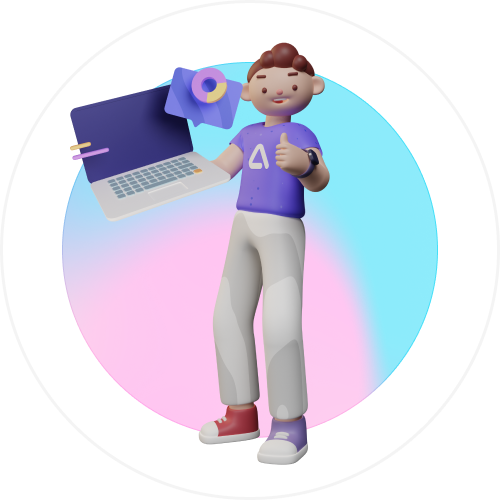
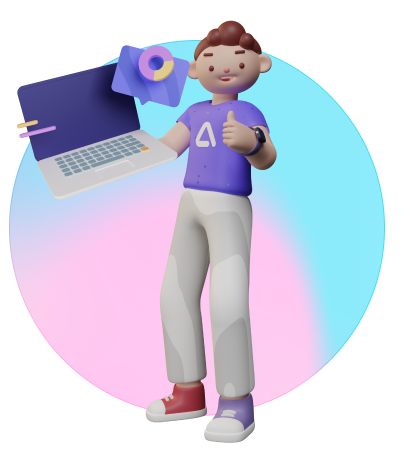
Styled header and Make Home Component and Styled the Home component

diff --git a/src/Component/Header/Header.jsx b/src/Component/Header/Header.jsx
@@ -1,20 +1,20 @@
 import React from 'react';
 import { NavLink } from 'react-router-dom';
-
+import {Logo,Topheader,Nav,Navbar} from "./Header.js"
 export const Header=()=>{
     return(
         <div>
-             <header>
-                 <div>Logo</div>
-                 <nav>
-                     <ul>
-                         <li><NavLink to="/" exact>Home</NavLink></li>
-                         <li><NavLink to="/works">Works</NavLink></li>   
-                         <li><NavLink to="/aboutme">AboutMe</NavLink></li>  
-                         <li><NavLink to="/contact">Contact</NavLink></li>  
-                     </ul>
-                 </nav>
-             </header>
+             <Topheader>
+                 <Logo>MP</Logo>
+                 <Nav>
+                     <Navbar>
+                         <li><NavLink to="/" exact activeClassName="Active_Link">Home</NavLink></li>
+                         <li><NavLink to="/works" activeClassName="Active_Link">Works</NavLink></li>   
+                         <li><NavLink to="/aboutme" activeClassName="Active_Link">AboutMe</NavLink></li>  
+                         <li><NavLink to="/contact" activeClassName="Active_Link">Contact</NavLink></li>  
+                     </Navbar>
+                 </Nav>
+             </Topheader>
         </div>
     )
 }

diff --git a/src/Component/Home/Home.js b/src/Component/Home/Home.js
@@ -1,0 +1,62 @@
+import styled from "styled-components"
+
+
+
+export const HOME=styled.div`
+margin-top: 2rem;
+width: 100%;
+height: 60vh;
+display: flex;
+align-items: center;
+justify-content: space-between;
+`
+
+export const HomeContent=styled.div`
+flex: 1 1 50%;
+height: 100%;
+padding-left: 5rem;
+padding-top: 2rem;
+
+`
+
+export const HomeImages=styled.div`
+flex: 1 1 50%;
+height: 100%;
+
+display: flex;
+align-items: center;
+justify-content: center;
+z-index: 1;
+position: relative;
+`
+
+export const Image=styled.img`
+width: 400px;
+height: 500px;
+
+` 
+
+export const ImageObject_1=styled.img`
+width: 100px;
+height: 150px;
+position:absolute;
+top:-40px;
+left: 180px;
+`
+export const ImageObject_2=styled.img`
+width: 100px;
+height: 150px;
+position:absolute;
+top:250px;
+right: 7px;
+`
+export const ImageObject_3=styled.img`
+width: 130px;
+height: 170px;
+position:absolute;
+top:270px;
+right: 320px;
+`
+
+export const SayHi=styled.h1`
+`

diff --git a/src/Component/Home/Home.jsx b/src/Component/Home/Home.jsx
@@ -1,11 +1,21 @@
 import React from 'react';
-
-
-
+import {HOME,HomeContent,HomeImages,Image,ImageObject_1,ImageObject_2,ImageObject_3,SayHi} from "./Home.js"
+import Image_1 from "../../images/Person.png"
+import Imageobject_1 from "../../images/object_1.png"
+import Imageobject_2 from "../../images/object_2.png"
+import Imageobject_3 from "../../images/object_3.png"
 export const Home=()=>{
     return (
-        <>
-        <h1>This is the Home</h1>
-        </>
+       <HOME>
+            <HomeContent>
+               <SayHi>Hi ! I Am </SayHi>
+            </HomeContent>
+            <HomeImages>
+                 <Image src={Image_1}></Image>
+                  <ImageObject_1 src={Imageobject_1}></ImageObject_1>
+                  <ImageObject_2 src={Imageobject_2}></ImageObject_2>
+                  <ImageObject_3 src={Imageobject_3}></ImageObject_3>
+            </HomeImages>
+       </HOME>
     )
 }

diff --git a/src/App.jsx b/src/App.jsx
@@ -1,8 +1,8 @@
 import React from 'react';
 import "./App.css"
-import {Header} from "./Component/Header/Header"
+import {Header} from "./Component/Header/Header.jsx"
 import {BrowserRouter as Router,Switch,Route} from "react-router-dom"
-import {Home} from './Component/Home/Home';
+import {Home} from './Component/Home/Home.jsx';
 import {Works} from './Component/Works/Works'
 
 export const App =()=>{
@@ -14,6 +14,7 @@ export const App =()=>{
                    <Switch>
                        <Route path="/" component={Home} exact />
                        <Route path="/works" component={Works} exact />
+                       
                        </Switch>
                </div>
             </div>

diff --git a/src/App.css b/src/App.css
@@ -14,6 +14,7 @@
     display: flex;
     align-items: center;
     justify-content: center;
+    
 }
 
 .Glass {
@@ -23,4 +24,5 @@
     border-radius: 1.5rem;
     backdrop-filter: blur(30px);
     border: 2px solid #f1f1f17c;
+    overflow: hidden;
 }

diff --git a/public/index.html b/public/index.html
@@ -18,6 +18,6 @@
   <body>
     <noscript>You need to enable JavaScript to run this app.</noscript>
     <div id="root"></div>
-    
+  
   </body>
 </html>
